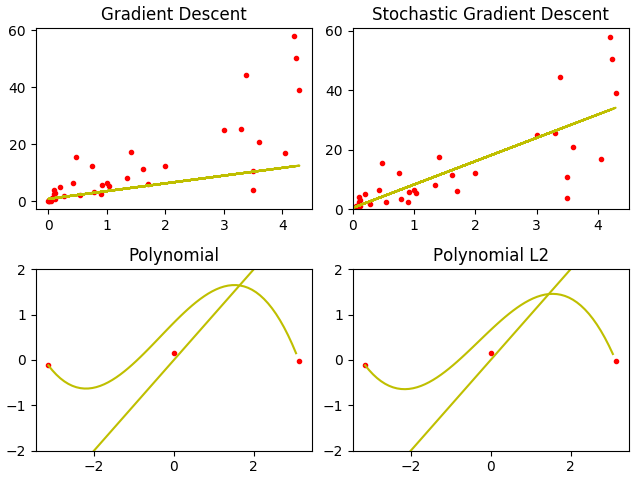
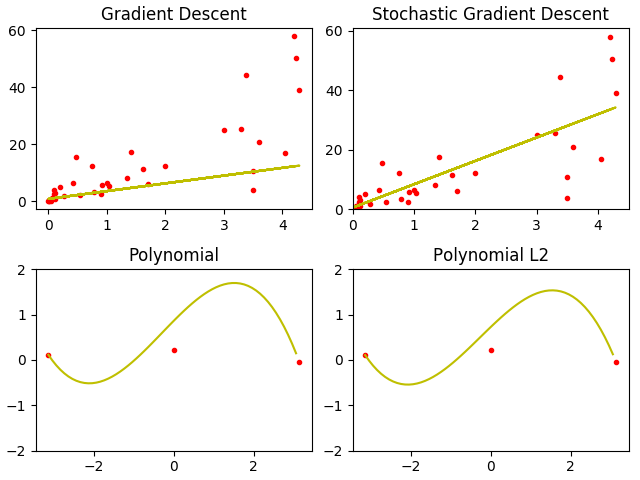
fix ploting of sin

diff --git a/src/__init__.py b/src/__init__.py
@@ -327,7 +327,6 @@ Y_hat_poly_datapoints_2 = list(map(lambda x: (x, Y_hat_poly(x, P5.x, P5.y, P5.z,
 
 def to_x_y(dataset):
     return list(zip(*dataset))
-    return [[t[0] for t in dataset], [t[1] for t in dataset]]
 
 
 "Plot batch gradient descent"
@@ -348,8 +347,7 @@ plt.subplot(2, 2, 3)
 plt.title("Polynomial")
 plt.ylim((-2,2))
 plt.plot(*to_x_y(poly_dataset), 'r.')
-plt.plot(sin_x_plot, Y_hat_poly_datapoints_1, 'y')
-# plt.plot(*to_x_y(Y_hat_poly_datapoints_1), 'y--')
+plt.plot(*to_x_y(Y_hat_poly_datapoints_1), 'y')
 plt.savefig('line.png')
 
 "Plot sinusoid data polynomial L2"
@@ -357,7 +355,7 @@ plt.subplot(2, 2, 4)
 plt.title("Polynomial L2")
 plt.ylim((-2,2))
 plt.plot(*to_x_y(poly_dataset), 'r.')
-plt.plot(sin_x_plot, Y_hat_poly_datapoints_2, 'y')
+plt.plot(*to_x_y(Y_hat_poly_datapoints_2), 'y')
 
 plt.tight_layout(pad=0.4, w_pad=0.5, h_pad=1.0)
 plt.savefig('line.png')
